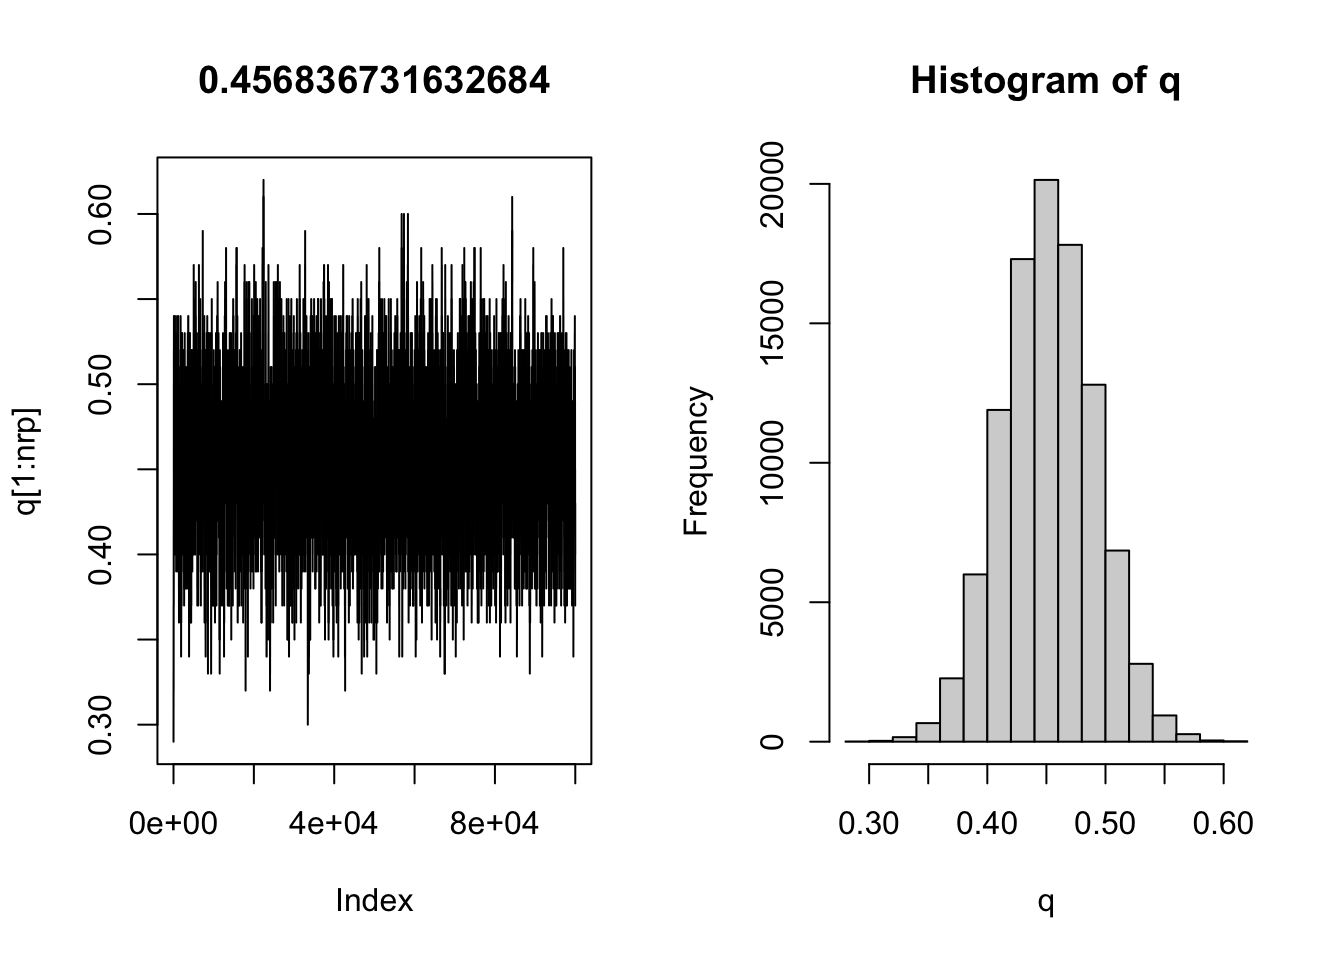
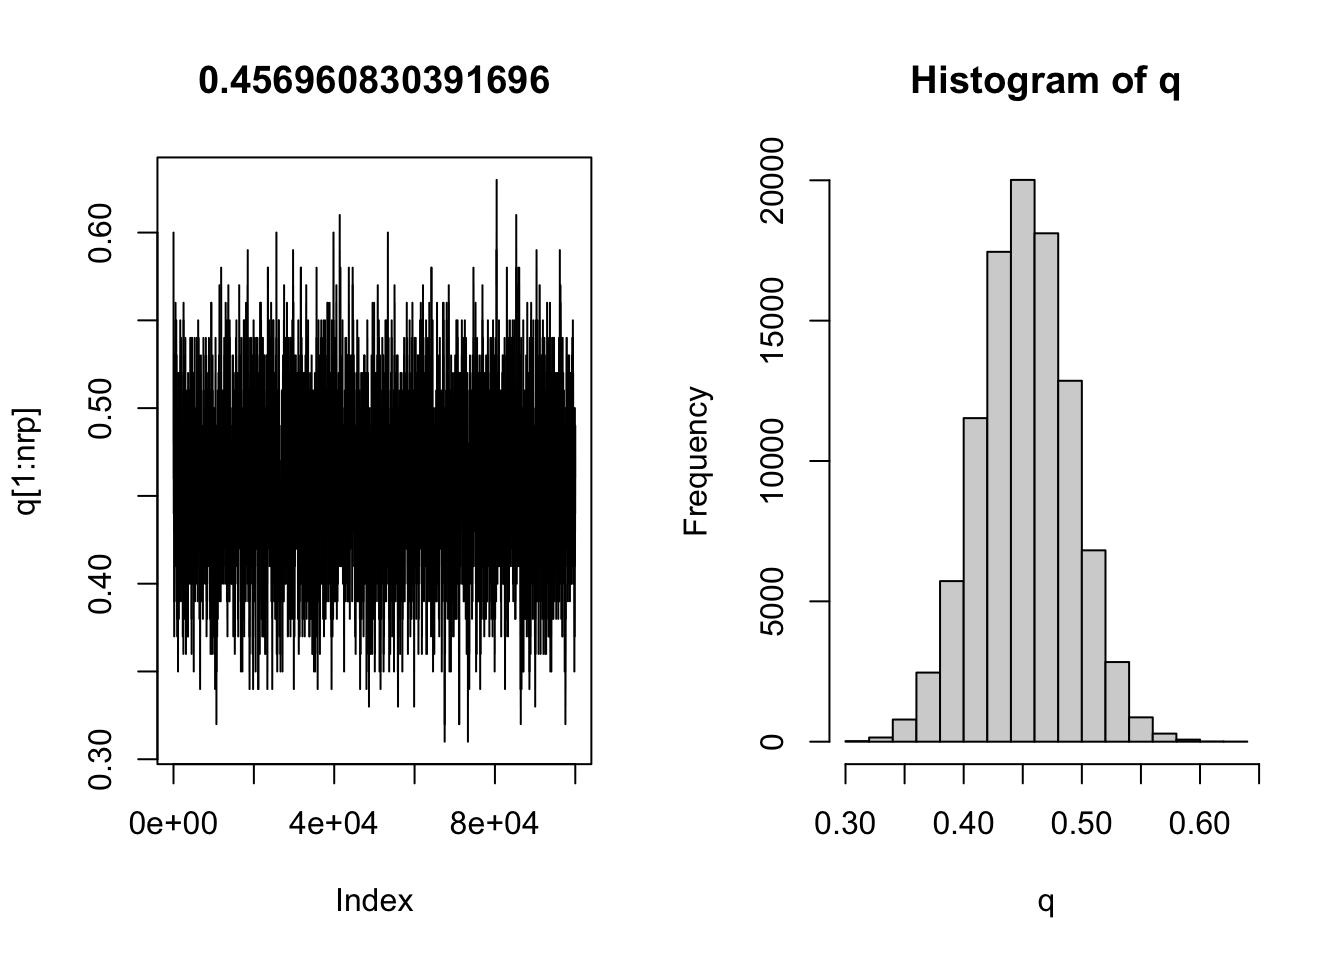
renew

diff --git a/docs/mcmc.html b/docs/mcmc.html
@@ -431,7 +431,7 @@ plot(q[1:nrp],type=&#39;l&#39;, main=q[nrp])</code></pre>
 </ul>
 <pre class="r"><code>layout(matrix(1:2, ncol=2))
 nrp&lt;-100000
-qi&lt;-0.30
+qi&lt;-0.60
 n&lt;-8
 data&lt;-c(4,3,4,5,5,2,3,1,4,0,1,5,5,6,5,4,4,5,3,4)
 logL&lt;-numeric(nrp)
